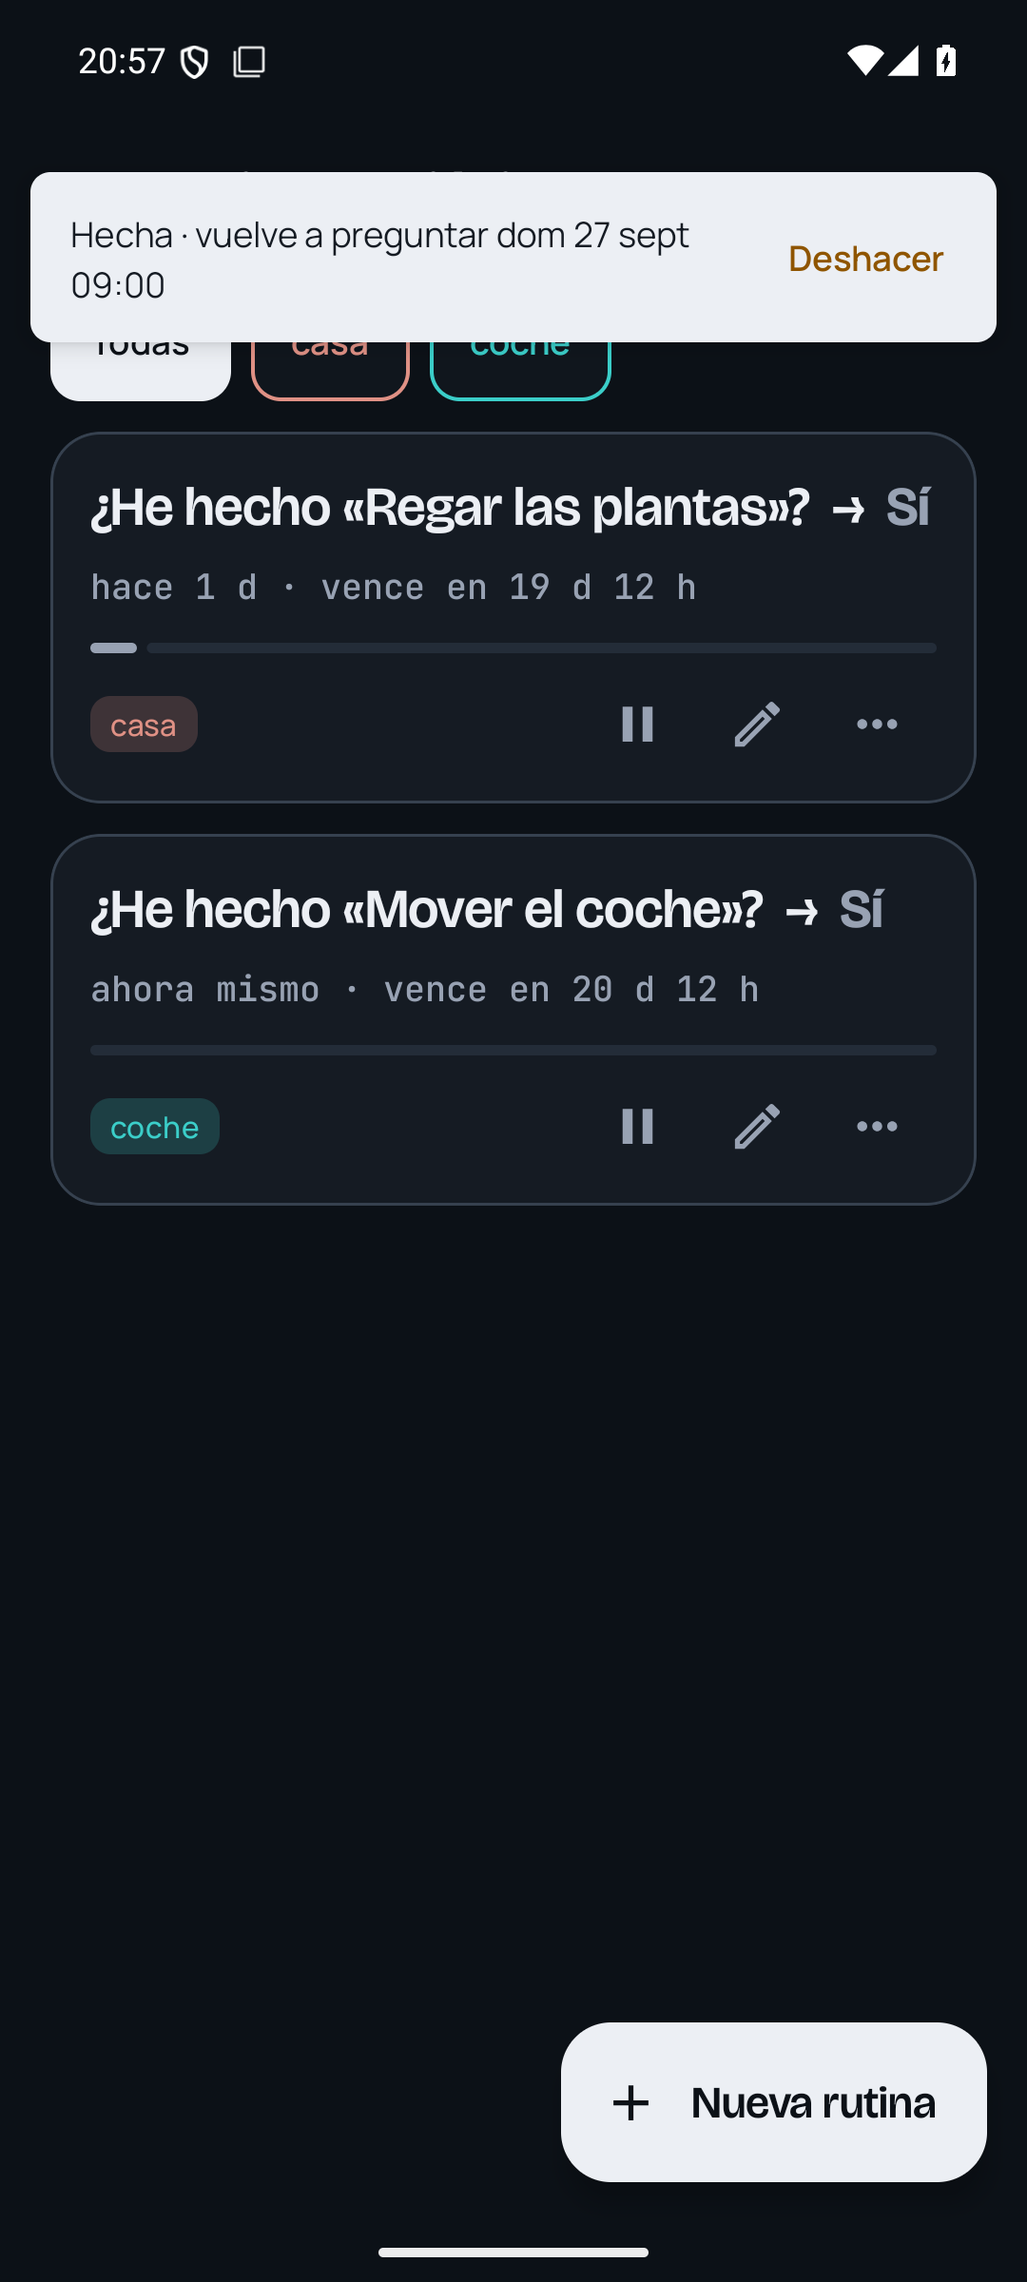
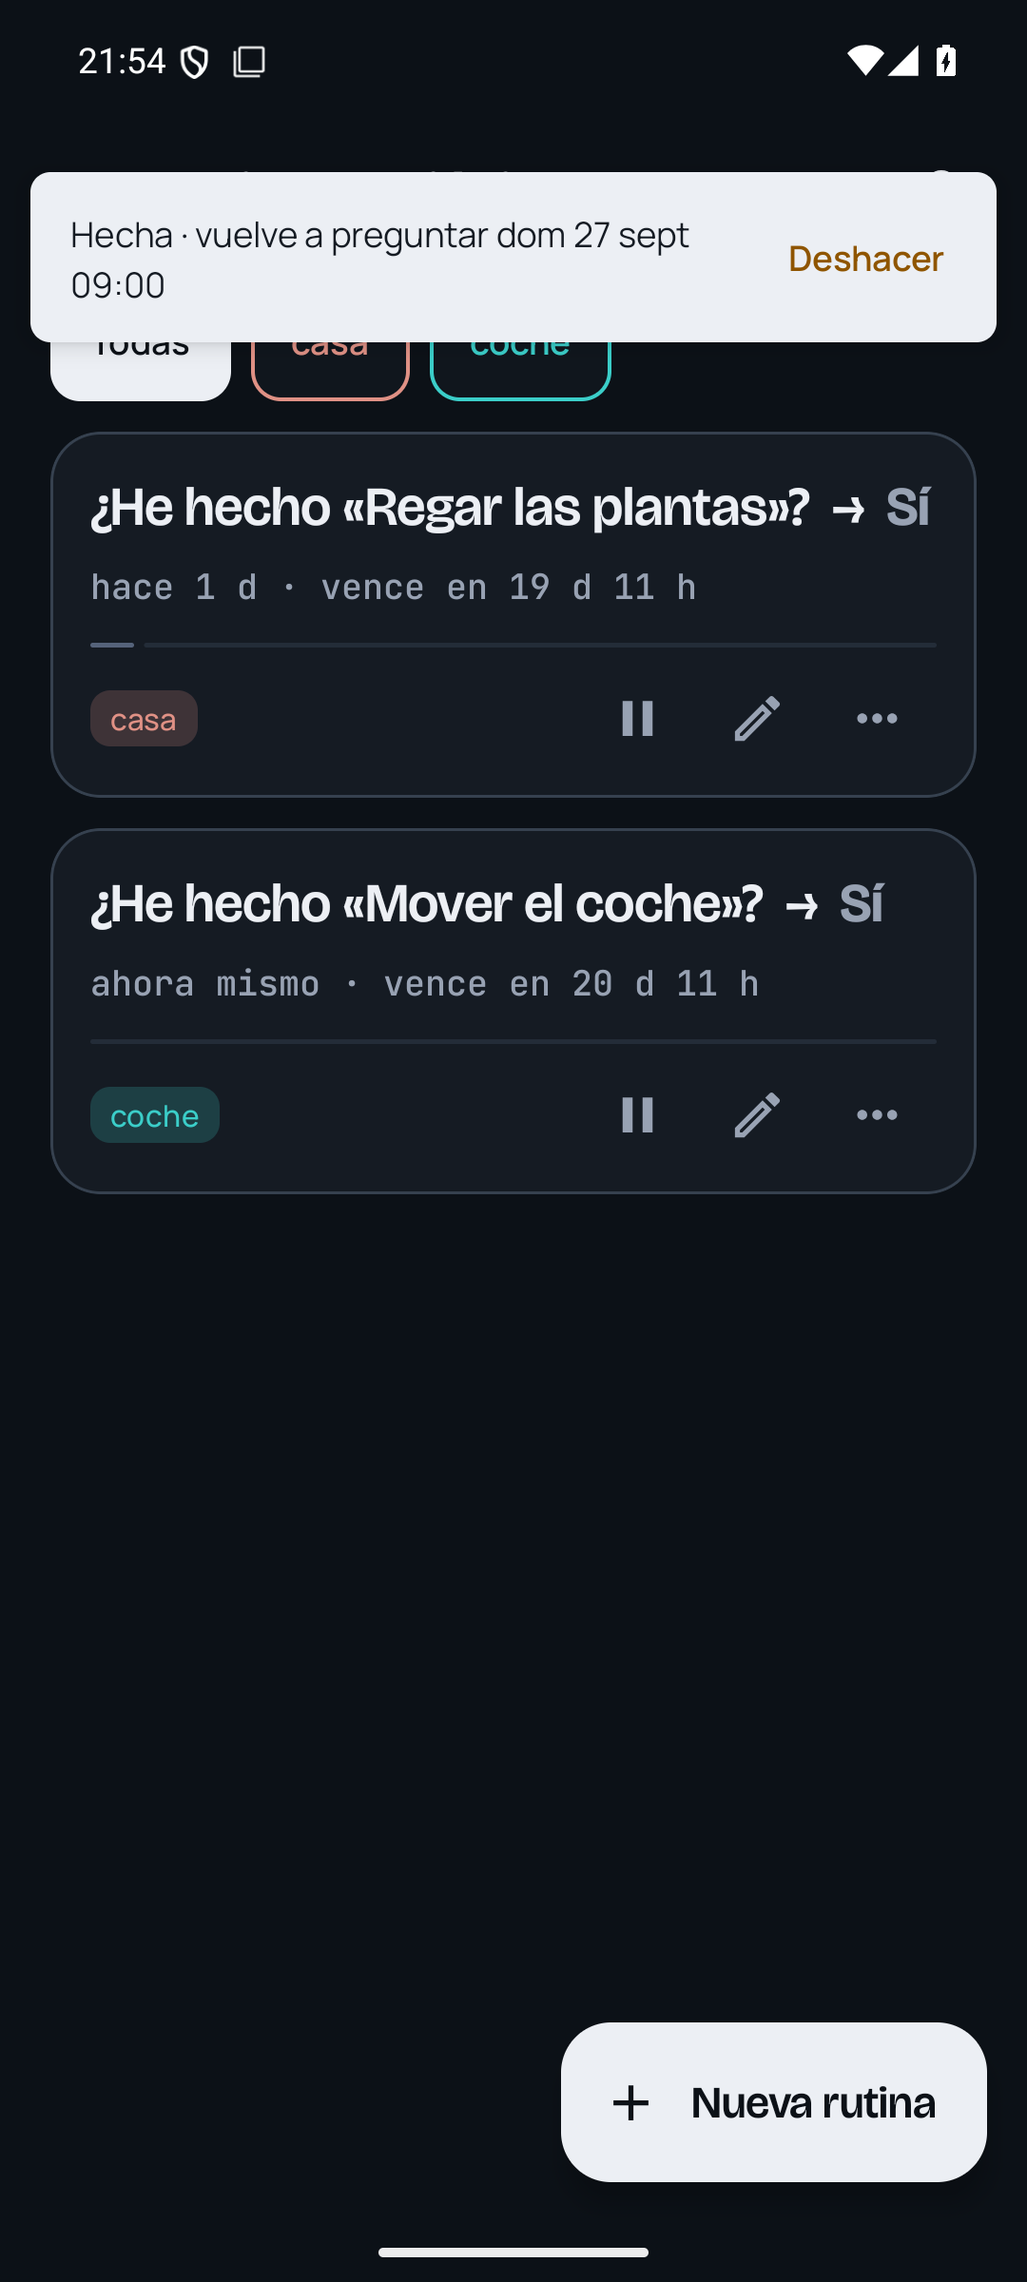
0.102.0: a search on the routines, and a card that says "vencida" once
Both asked for from the phone.

- routinesFor takes a query and narrows the list with the same forgiving match
  Home searches with; the order stays the list's own, because this screen means
  "what is owed, soonest first" and a list re-sorted by match would answer a
  different question. It composes with the chips.
- The field is Home's own SearchField in the top bar's place — which needs the
  statusBarsPadding RwilcoTopBar applies: Home's header does that before
  drawing it, so dropped into a topBar slot it came out under the clock.
- The card said "vencida" three times over: the bold "No", a line of red mono,
  and a red bar. The count is the muted ink whatever the answer is now, and the
  track is a 2dp hairline at just over half alpha.

./gradlew test and :app:assembleDebug green; RoutinesTourTest green on the
emulator, extended to type in the field, with the captures refreshed.

Claude-Session: https://claude.ai/code/session_012BNy2FVZ2QoBf4V5CsY38W

diff --git a/app/src/main/kotlin/dev/rwilco/ui/routines/RoutinesScreen.kt b/app/src/main/kotlin/dev/rwilco/ui/routines/RoutinesScreen.kt
@@ -15,6 +15,7 @@ import androidx.compose.foundation.layout.height
 import androidx.compose.foundation.layout.heightIn
 import androidx.compose.foundation.layout.padding
 import androidx.compose.foundation.layout.safeDrawing
+import androidx.compose.foundation.layout.statusBarsPadding
 import androidx.compose.foundation.lazy.LazyColumn
 import androidx.compose.foundation.lazy.rememberLazyListState
 import androidx.compose.foundation.lazy.LazyRow
@@ -27,6 +28,7 @@ import androidx.compose.material.icons.outlined.MoreHoriz
 import androidx.compose.material.icons.outlined.Pause
 import androidx.compose.material.icons.outlined.PlayArrow
 import androidx.compose.material.icons.outlined.ErrorOutline
+import androidx.compose.material.icons.outlined.Search
 import androidx.compose.material.icons.outlined.SearchOff
 import androidx.compose.material3.ExtendedFloatingActionButton
 import androidx.compose.material3.Icon
@@ -34,6 +36,7 @@ import androidx.compose.material3.IconButton
 import androidx.compose.material3.LinearProgressIndicator
 import androidx.compose.material3.MaterialTheme
 import androidx.compose.material3.Scaffold
+import androidx.compose.material3.Surface
 import androidx.compose.material3.Text
 import androidx.compose.runtime.Composable
 import androidx.compose.runtime.LaunchedEffect
@@ -70,6 +73,7 @@ import dev.rwilco.ui.format.countdownText
 import dev.rwilco.ui.format.dayWord
 import dev.rwilco.ui.format.rememberWords
 import dev.rwilco.ui.home.ReminderActionsMenu
+import dev.rwilco.ui.home.SearchField
 import dev.rwilco.ui.home.SwipeableCard
 import dev.rwilco.ui.home.UndoDeleteRow
 import dev.rwilco.ui.theme.MonoStyles
@@ -126,6 +130,9 @@ fun RoutinesScreen(
     // question, so the menu closes and the sheet takes over.
     var pickingDateFor by rememberSaveable { mutableStateOf<String?>(null) }
     val listState = rememberLazyListState()
+    // The magnifier in the bar opens a field in its place, the way Home's does — the same
+    // control, so the gesture and the keyboard behave the same on both screens.
+    var searching by rememberSaveable { mutableStateOf(false) }
     // A routine arrived at from its own row on Home is scrolled to, once: the list is rebuilt
     // every minute (the counts move), and a scroll on every rebuild would fight the thumb.
     var landed by rememberSaveable { mutableStateOf(false) }
@@ -172,7 +179,33 @@ fun RoutinesScreen(
     Scaffold(
         containerColor = MaterialTheme.colorScheme.background,
         contentWindowInsets = WindowInsets.safeDrawing,
-        topBar = { RwilcoTopBar(title = stringResource(R.string.routines_title), onBack = onBack) },
+        topBar = {
+            if (searching) {
+                // The field is Home's, and Home's header handles its own insets before drawing
+                // it; here it is the top bar itself, so it takes the status bar's room the way
+                // [RwilcoTopBar] does — without it the placeholder sits under the clock.
+                Surface(color = MaterialTheme.colorScheme.background) {
+                    Box(Modifier.statusBarsPadding().padding(horizontal = spacing.sm, vertical = spacing.xs)) {
+                        SearchField(
+                            query = state.query,
+                            onQueryChange = viewModel::search,
+                            onClose = { searching = false; viewModel.search("") },
+                        )
+                    }
+                }
+            } else {
+                RwilcoTopBar(
+                    title = stringResource(R.string.routines_title),
+                    onBack = onBack,
+                    action = {
+                        val haptics = Tokens.haptics
+                        IconButton(onClick = { haptics.perform(HapticFeedbackType.ContextClick); searching = true }) {
+                            Icon(Icons.Outlined.Search, contentDescription = stringResource(R.string.home_search))
+                        }
+                    },
+                )
+            }
+        },
         floatingActionButton = {
             val haptics = Tokens.haptics
             // The screen's one primary action, in the thumb zone, wearing the inverted neutral
@@ -243,8 +276,10 @@ fun RoutinesScreen(
             } else if (state.loaded && !state.failed && state.rows.isEmpty()) {
                 item(key = "none-under-filter") {
                     EmptyState(
-                        title = stringResource(R.string.routines_filter_none_title),
-                        body = stringResource(R.string.routines_filter_none_body),
+                        // Two different nothings: no routine answers these words, or none is
+                        // under this chip. The way out is a different one for each.
+                        title = stringResource(if (state.query.isNotBlank()) R.string.home_search_none_title else R.string.routines_filter_none_title),
+                        body = stringResource(if (state.query.isNotBlank()) R.string.home_search_none_body else R.string.routines_filter_none_body),
                         icon = Icons.Outlined.SearchOff,
                     )
                 }
@@ -378,19 +413,23 @@ private fun RoutineCard(
                 modifier = Modifier.fillMaxWidth(),
             )
             Spacer(Modifier.height(spacing.sm))
+            // **The count and its track are furniture, not the alarm.** The answer at the end
+            // of the question is what says "No", in the error ink and in bold; a second line of
+            // red under it and a red bar under that was the same word said three times. So the
+            // line is the quiet ink whatever the answer is, and the track is a hairline.
             Text(
                 text = dueLine,
                 style = MonoStyles.date,
-                color = if (row.done || row.paused) scheme.onSurfaceVariant else scheme.error,
+                color = scheme.onSurfaceVariant,
             )
             Spacer(Modifier.height(spacing.md))
             LinearProgressIndicator(
                 progress = { progress },
-                color = if (row.done || row.paused) scheme.onSurfaceVariant else scheme.error,
+                color = if (row.done || row.paused) scheme.outline else scheme.error.copy(alpha = OVERDUE_TRACK_ALPHA),
                 trackColor = scheme.surfaceContainerHighest,
                 strokeCap = StrokeCap.Round,
                 drawStopIndicator = {},
-                modifier = Modifier.fillMaxWidth(),
+                modifier = Modifier.fillMaxWidth().height(Tokens.strokes.strong),
             )
             // The footer: the tags on the left, the three things a card can be told to do on
             // the right — the same three a reminder's card carries, and the same menu behind
@@ -424,3 +463,6 @@ private fun RoutineCard(
         }
     }
 }
+
+/** A full track on an overdue routine still says so, at the volume a line under the words wants. */
+private const val OVERDUE_TRACK_ALPHA = 0.55f

diff --git a/core-model/src/test/kotlin/dev/rwilco/model/RoutinesTest.kt b/core-model/src/test/kotlin/dev/rwilco/model/RoutinesTest.kt
@@ -233,6 +233,30 @@ class RoutinesTest {
     }
 
     @Test
+    fun `a search narrows the list and leaves its order alone`() {
+        val plants = car(id = "plants", text = "Regar las plantas", createdAt = now.minusSeconds(25 * 86_400))
+        val filter = car(id = "filter", text = "Cambiar el filtro del agua", span = Recurrence.Since(3, RecurrenceUnit.MONTHS), createdAt = now.minusSeconds(100 * 86_400))
+        val fresh = car(id = "fresh", text = "Mover el coche", createdAt = now.minusSeconds(86_400))
+        val all = listOf(fresh, plants, filter)
+
+        assertEquals(listOf("filter", "plants", "fresh"), routinesFor(all, RoutineFilter.All, now, zone, dayStart).map { it.id }, "no words, no narrowing")
+        assertEquals(listOf("fresh"), routinesFor(all, RoutineFilter.All, now, zone, dayStart, "coche").map { it.id })
+        // Forgiving the way Home's search is: accents, case, and the letters in order.
+        assertEquals(listOf("plants"), routinesFor(all, RoutineFilter.All, now, zone, dayStart, "PLANTAS").map { it.id })
+        assertEquals(listOf("filter"), routinesFor(all, RoutineFilter.All, now, zone, dayStart, "cmbiar").map { it.id })
+        assertEquals(emptyList<String>(), routinesFor(all, RoutineFilter.All, now, zone, dayStart, "bicicleta").map { it.id })
+        // **The order is the list's own**, not the search's: what is owed stays on top even
+        // when the words match the fresh one better.
+        assertEquals(
+            listOf("filter", "plants"),
+            routinesFor(all, RoutineFilter.All, now, zone, dayStart, "a").map { it.id },
+            "one letter matches all three by subsequence only where it starts a word",
+        )
+        // And it composes with a chip rather than replacing it.
+        assertEquals(listOf("filter"), routinesFor(all, RoutineFilter.Overdue, now, zone, dayStart, "filtro").map { it.id })
+    }
+
+    @Test
     fun `the filters offered are vencidas while something is, and then the routines' own tags`() {
         val tagged = car(id = "a", tags = listOf("Casa"), createdAt = now.minusSeconds(86_400))
         val other = car(id = "b", tags = listOf("coche", "casa"), createdAt = now.minusSeconds(86_400))

diff --git a/app/src/androidTest/kotlin/dev/rwilco/ui/RoutinesTourTest.kt b/app/src/androidTest/kotlin/dev/rwilco/ui/RoutinesTourTest.kt
@@ -10,6 +10,8 @@ import androidx.compose.ui.semantics.SemanticsActions
 import androidx.compose.ui.test.junit4.createAndroidComposeRule
 import androidx.compose.ui.test.onAllNodesWithText
 import androidx.compose.ui.test.onNodeWithContentDescription
+import androidx.compose.ui.test.onNodeWithTag
+import androidx.compose.ui.test.performTextInput
 import androidx.compose.ui.test.onNodeWithText
 import androidx.compose.ui.test.performClick
 import androidx.compose.ui.test.performCustomAccessibilityActionWithLabel
@@ -29,6 +31,7 @@ import dev.rwilco.model.ThemeMode
 import dev.rwilco.model.Trigger
 import dev.rwilco.model.TriggerRule
 import dev.rwilco.model.routineDone
+import dev.rwilco.ui.home.HOME_SEARCH_TAG
 import kotlinx.coroutines.runBlocking
 import org.junit.Before
 import org.junit.BeforeClass
@@ -134,6 +137,16 @@ class RoutinesTourTest {
         rule.onNodeWithText(s(R.string.routines_question, car), substring = true, useUnmergedTree = true).assertIsDisplayed()
         shot("routines-overdue")
         rule.onNodeWithText(s(R.string.routines_filter_all)).performClick()
+        rule.waitUntilShown(s(R.string.routines_question, plants))
+
+        // The magnifier in the bar narrows the list by words — the same field Home searches
+        // with, in the bar's own place.
+        rule.onNodeWithContentDescription(s(R.string.home_search)).performClick()
+        rule.onNodeWithTag(HOME_SEARCH_TAG).performTextInput("coche")
+        rule.waitUntilGone(s(R.string.routines_question, plants))
+        rule.onNodeWithText(s(R.string.routines_question, car), substring = true, useUnmergedTree = true).assertIsDisplayed()
+        shot("routines-search")
+        rule.onNodeWithContentDescription(s(R.string.common_back)).performClick()
         rule.waitUntilShown(s(R.string.routines_question, plants))
 
         // The three controls a routine's card carries, the way a reminder's does (0.99.0): the

diff --git a/app/src/main/kotlin/dev/rwilco/ui/routines/RoutinesState.kt b/app/src/main/kotlin/dev/rwilco/ui/routines/RoutinesState.kt
@@ -49,6 +49,8 @@ data class RoutinesUiState(
     val filters: List<RoutineFilter> = emptyList(),
     /** How many routines there are at all, filter or no filter: an empty list under a filter is not "none". */
     val total: Int = 0,
+    /** The words the list is narrowed by; blank when nobody is searching. */
+    val query: String = "",
     val overdue: Int = 0,
     val failed: Boolean = false,
 ) {
@@ -63,6 +65,7 @@ fun buildRoutinesState(
     now: Instant,
     zone: ZoneId,
     dayStart: LocalTime = DEFAULT_DAY_START,
+    query: String = "",
 ): RoutinesUiState {
     val filters = routineFilters(reminders, now, zone, dayStart)
     // A filter on something no longer offered is no filter: the last overdue one was done, the
@@ -72,7 +75,7 @@ fun buildRoutinesState(
         RoutineFilter.Overdue -> selected.takeIf { it in filters } ?: RoutineFilter.All
         is RoutineFilter.Tag -> filters.firstOrNull { it is RoutineFilter.Tag && it.tag.equals(selected.tag, ignoreCase = true) } ?: RoutineFilter.All
     }
-    val rows = routinesFor(reminders, filter, now, zone, dayStart).mapNotNull { reminder ->
+    val rows = routinesFor(reminders, filter, now, zone, dayStart, query).mapNotNull { reminder ->
         val anchor = reminder.routineAnchor()
         val deadline = reminder.routineDeadline(zone, dayStart) ?: return@mapNotNull null
         RoutineRowUi(
@@ -94,6 +97,7 @@ fun buildRoutinesState(
         rows = rows,
         filter = filter,
         filters = filters,
+        query = query,
         // Counted, not listed: how many there are does not need them sorted, and this is
         // asked again every minute. The same count Home's line is built from.
         total = reminders.count { it.isRoutine && it.status != Status.DONE },

diff --git a/app/src/main/kotlin/dev/rwilco/ui/routines/RoutinesViewModel.kt b/app/src/main/kotlin/dev/rwilco/ui/routines/RoutinesViewModel.kt
@@ -69,6 +69,7 @@ class RoutinesViewModel(
 ) : ViewModel() {
 
     private val filter = MutableStateFlow<RoutineFilter>(RoutineFilter.All)
+    private val query = MutableStateFlow("")
     private val startTick = MutableStateFlow(clock.instant())
     private val events = Channel<RoutinesEvent>(Channel.BUFFERED)
     val eventFlow: Flow<RoutinesEvent> = events.receiveAsFlow()
@@ -85,9 +86,10 @@ class RoutinesViewModel(
         repository.open,
         settings.filterNotNull(),
         filter,
+        query,
         merge(startTick, minutePulse),
-    ) { reminders, current, chosen, _ ->
-        buildRoutinesState(reminders, chosen, clock.instant(), clock.zone, current.dayStart)
+    ) { reminders, current, chosen, words, _ ->
+        buildRoutinesState(reminders, chosen, clock.instant(), clock.zone, current.dayStart, words)
     }
         .flowOn(Dispatchers.Default)
         .catch { failure ->
@@ -103,6 +105,9 @@ class RoutinesViewModel(
     /** The hour a date with no time of its own means, which is what the calendar opens on. */
     val defaultTime: StateFlow<LocalTime> = settings.filterNotNull().map { it.defaultTime }
         .stateIn(viewModelScope, SharingStarted.WhileSubscribed(5_000), AppSettings().defaultTime)
+
+    /** What the search field types; blank is not searching. */
+    fun search(words: String) { query.value = words }
 
     /** Tapping the selected chip again clears the filter. */
     fun selectFilter(chosen: RoutineFilter) {

diff --git a/core-model/src/main/kotlin/dev/rwilco/model/Routines.kt b/core-model/src/main/kotlin/dev/rwilco/model/Routines.kt
@@ -75,8 +75,16 @@ fun routinesFor(
     now: Instant,
     zone: ZoneId,
     dayStart: LocalTime = DEFAULT_DAY_START,
+    /**
+     * Words to narrow the list by, forgivingly ([fuzzyScore], the same match Home searches
+     * with); blank is no narrowing. The **order does not change**: this list means "what is
+     * owed, soonest first", and a search that re-sorted it by how well each row matched would
+     * answer a different question from the one the screen is for.
+     */
+    query: String = "",
 ): List<Reminder> = reminders
     .filter { it.isRoutine && it.status != Status.DONE }
+    .filter { matchesWords(it, query) }
     .filter {
         when (filter) {
             RoutineFilter.All -> true
@@ -95,6 +103,12 @@ fun routinesFor(
             .thenBy { it.routineDeadline(zone, dayStart) }
             .thenBy { it.createdAt },
     )
+
+/** Whether [reminder]'s own words answer [query]; a blank query answers itself. */
+private fun matchesWords(reminder: Reminder, query: String): Boolean {
+    val needle = fold(query)
+    return needle.isEmpty() || fuzzyScore(needle, fold(reminder.text)) != null
+}
 
 /** The filters worth offering: the app's own "vencidas" only while something is, then the routines' tags. */
 fun routineFilters(reminders: List<Reminder>, now: Instant, zone: ZoneId, dayStart: LocalTime = DEFAULT_DAY_START): List<RoutineFilter> {

diff --git a/app/src/main/kotlin/dev/rwilco/ui/settings/WhatsNew.kt b/app/src/main/kotlin/dev/rwilco/ui/settings/WhatsNew.kt
@@ -40,6 +40,7 @@ data class Release(val versionCode: Int, val name: String, @ArrayRes val bullets
  * brought the notes back, so a phone that last saw 0.20.0 is told once what happened since.
  */
 val RELEASES: List<Release> = listOf(
+    Release(versionCode = 155, name = "0.102.0", bulletsRes = R.array.whats_new_0_102_0),
     Release(versionCode = 154, name = "0.101.0", bulletsRes = R.array.whats_new_0_101_0),
     Release(versionCode = 153, name = "0.100.0", bulletsRes = R.array.whats_new_0_100_0),
     Release(versionCode = 152, name = "0.99.1", bulletsRes = R.array.whats_new_0_99_1),

diff --git a/TODO.md b/TODO.md
@@ -502,6 +502,23 @@ after the span in "Vuelve"), and the editor's draft not surviving process death 
 `SavedStateHandle`). The second half of the round — the `⋯` on a card, Tags below "Vuelve",
 warnings off amber, one top bar, TalkBack order on the alert, the tokens — is 0.94.0.
 
+## A search on the routines, and a quieter card, 0.102.0 (2026-09-06)
+Both asked for from the phone, one after the other.
+
+- **The search narrows, it does not re-rank.** `routinesFor` takes a query and filters with the
+  same forgiving match Home searches with (`fuzzyScore` over `fold`) — but the order stays the
+  list's own, because this screen means "what is owed, soonest first" and a list re-sorted by
+  how well each row matched would be answering a different question. It composes with the chips
+  rather than replacing them.
+- The field is Home's own `SearchField`, in the top bar's place. **Home's header handles the
+  status bar before drawing it**, so dropped into a `topBar` slot it came out under the clock:
+  it needs the `statusBarsPadding()` `RwilcoTopBar` applies. One screenshot to see, one line to
+  fix, and the reason it is written down is that the next reuse of that field will hit it too.
+- **The card said "vencida" three times** — the bold "No" at the end of the question, a line of
+  red mono under it, and a red bar under that. The count is now the muted ink whatever the
+  answer is, and the track is `strokes.strong` (2dp) with the error ink at just over half
+  alpha, so a full bar still reads as full without being the loudest thing on the screen.
+
 ## "Y sólo si voy en coche", 0.101.0 (2026-09-06)
 The last of the four, and the one that needed a decision rather than code.
 
